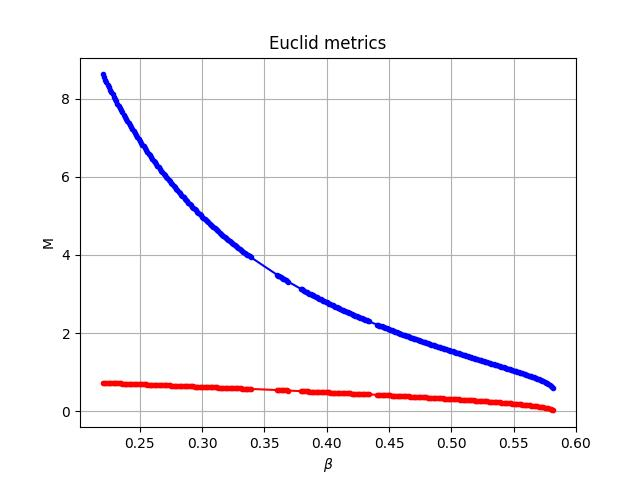
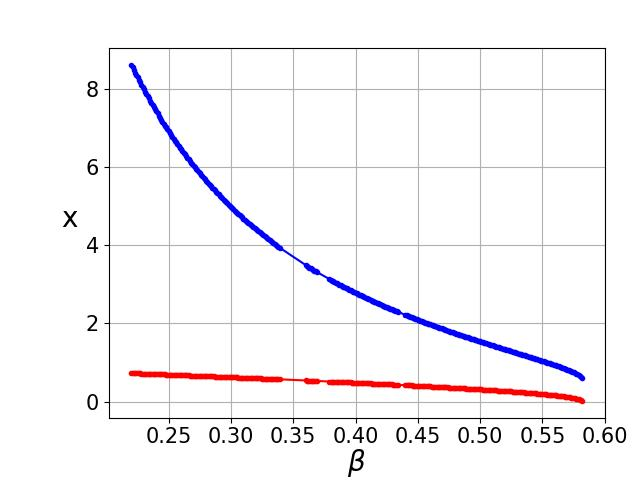
Upd

diff --git a/grpah/runner.py b/grpah/runner.py
@@ -1742,7 +1742,15 @@ def run_machalanobis_beta_noise():
             if metrics1 is not None:
                 mahalanobis1.add_x(b).add_y(metrics1)
 
-    plotter = (Plotter()._setup('$\\beta$', 'M', 'linear', 'major', 'Mahalanobis metrics'))
+    plotter = (Plotter()
+        .adjust(top=0.9, bottom=0.13, left=0.17, right=0.945)
+        .setup_x_label('$\\beta$', font_size=20, label_pad=0)
+        .setup_x_ticks(font_size=15)
+        .setup_y_label('x', font_size=20, label_pad=12)
+        .setup_y_ticks(font_size=15)
+        .setup_grid(grid.major))
+
+    # plotter = (Plotter()._setup('$\\beta$', 'M', 'linear', 'major', 'Mahalanobis metrics'))
 
     plotter.plot_line(mahalanobis0, '.', 'red')
     plotter.plot_line(mahalanobis1, '.', 'blue')
@@ -1849,13 +1857,21 @@ def run_machalanobis_additive_noise():
             if metrics1 is not None:
                 mahalanobis1.add_x(b).add_y(metrics1)
 
-    plotter = (Plotter()._setup('$\\beta$', 'M', 'linear', 'major', 'Mahalanobis metrics'))
+    plotter = (Plotter()
+        .adjust(top=0.9, bottom=0.13, left=0.17, right=0.945)
+        .setup_x_label('$\\beta$', font_size=20, label_pad=0)
+        .setup_x_ticks(font_size=15)
+        .setup_y_label('x', font_size=20, label_pad=12)
+        .setup_y_ticks(font_size=15)
+        .setup_grid(grid.major))
+
+    # plotter = (Plotter()._setup('$\\beta$', 'M', 'linear', 'major', 'Mahalanobis metrics'))
 
     plotter.plot_line(mahalanobis0, '.', 'red')
     plotter.plot_line(mahalanobis1, '.', 'blue')
 
-    # plotter.show_last()
-    plotter.show()
+    plotter.show_last()
+    # plotter.show()
 
 
 def run_euclid_beta_noise():
@@ -1962,7 +1978,15 @@ def run_euclid_beta_noise():
             if metrics is not None:
                 mahalanobis1.add_x(b).add_y(metrics)
 
-    plotter = (Plotter()._setup('$\\beta$', 'M', 'linear', 'major', 'Euclid metrics'))
+    plotter = (Plotter()
+        .adjust(top=0.9, bottom=0.13, left=0.17, right=0.945)
+        .setup_x_label('$\\beta$', font_size=20, label_pad=0)
+        .setup_x_ticks(font_size=15)
+        .setup_y_label('x', font_size=20, label_pad=12)
+        .setup_y_ticks(font_size=15)
+        .setup_grid(grid.major))
+
+    # plotter = (Plotter()._setup('$\\beta$', 'M', 'linear', 'major', 'Euclid metrics'))
 
     plotter.plot_line(mahalanobis0, '.', 'red')
     plotter.plot_line(mahalanobis1, '.', 'blue')
@@ -2070,7 +2094,15 @@ def run_euclid_alpha_noise():
             if metrics1 is not None:
                 mahalanobis1.add_x(b).add_y(metrics1)
 
-    plotter = (Plotter()._setup('$\\beta$', 'M', 'linear', 'major', 'Euclid metrics'))
+    plotter = (Plotter()
+        .adjust(top=0.9, bottom=0.13, left=0.17, right=0.945)
+        .setup_x_label('$\\beta$', font_size=20, label_pad=0)
+        .setup_x_ticks(font_size=15)
+        .setup_y_label('x', font_size=20, label_pad=12)
+        .setup_y_ticks(font_size=15)
+        .setup_grid(grid.major))
+
+    # plotter = (Plotter()._setup('$\\beta$', 'M', 'linear', 'major', 'Euclid metrics'))
 
     plotter.plot_line(mahalanobis0, '.', 'red')
     plotter.plot_line(mahalanobis1, '.', 'blue')
@@ -2176,7 +2208,15 @@ def run_euclid_additive_noise():
             if metrics1 is not None:
                 mahalanobis1.add_x(b).add_y(metrics1)
 
-    plotter = (Plotter()._setup('$\\beta$', 'M', 'linear', 'major', 'Euclid metrics'))
+    plotter = (Plotter()
+        .adjust(top=0.9, bottom=0.13, left=0.17, right=0.945)
+        .setup_x_label('$\\beta$', font_size=20, label_pad=0)
+        .setup_x_ticks(font_size=15)
+        .setup_y_label('x', font_size=20, label_pad=12)
+        .setup_y_ticks(font_size=15)
+        .setup_grid(grid.major))
+
+    # plotter = (Plotter()._setup('$\\beta$', 'M', 'linear', 'major', 'Euclid metrics'))
 
     plotter.plot_line(mahalanobis0, '.', 'red')
     plotter.plot_line(mahalanobis1, '.', 'blue')

diff --git a/grpah/main.py b/grpah/main.py
@@ -81,11 +81,11 @@ if __name__ == "__main__":
     # run_stochastic_sensitivity_additive_noise_to_file()
 
     # run_machalanobis_alpha_noise()
-    run_machalanobis_beta_noise()
+    # run_machalanobis_beta_noise()
     # run_machalanobis_additive_noise()
 
-    # run_euclid_beta_noise()
     # run_euclid_alpha_noise()
+    # run_euclid_beta_noise()
     # run_euclid_additive_noise()
 
     # critical_intensity_beta_noise()
